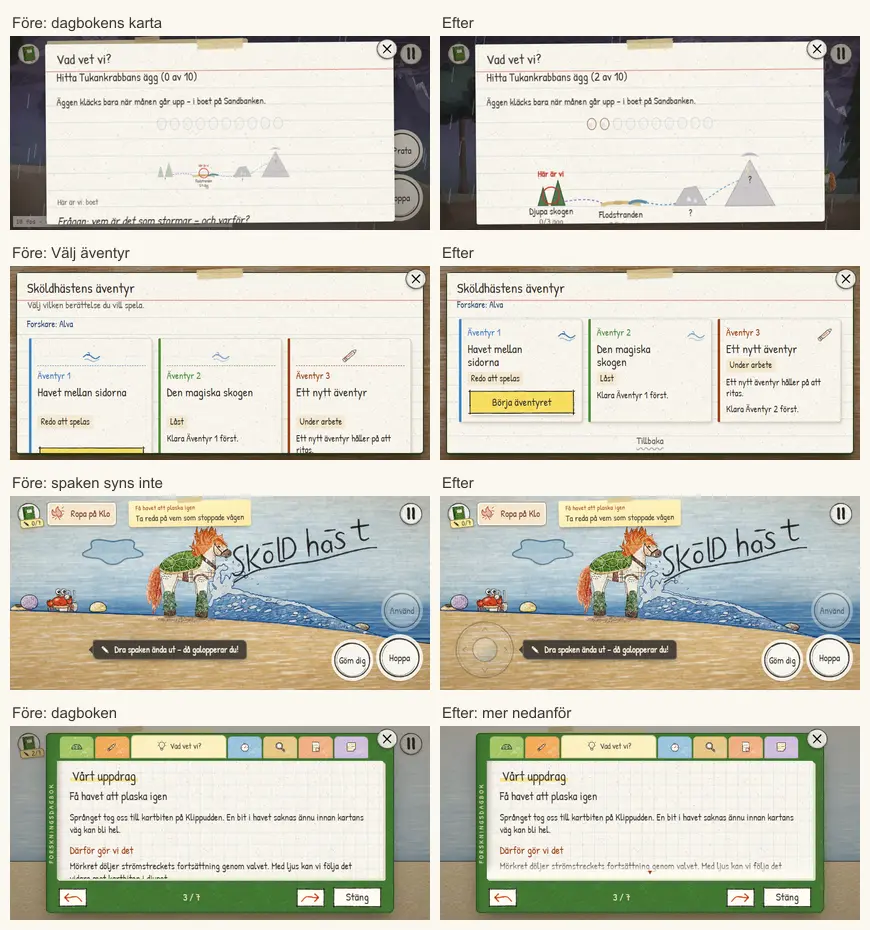
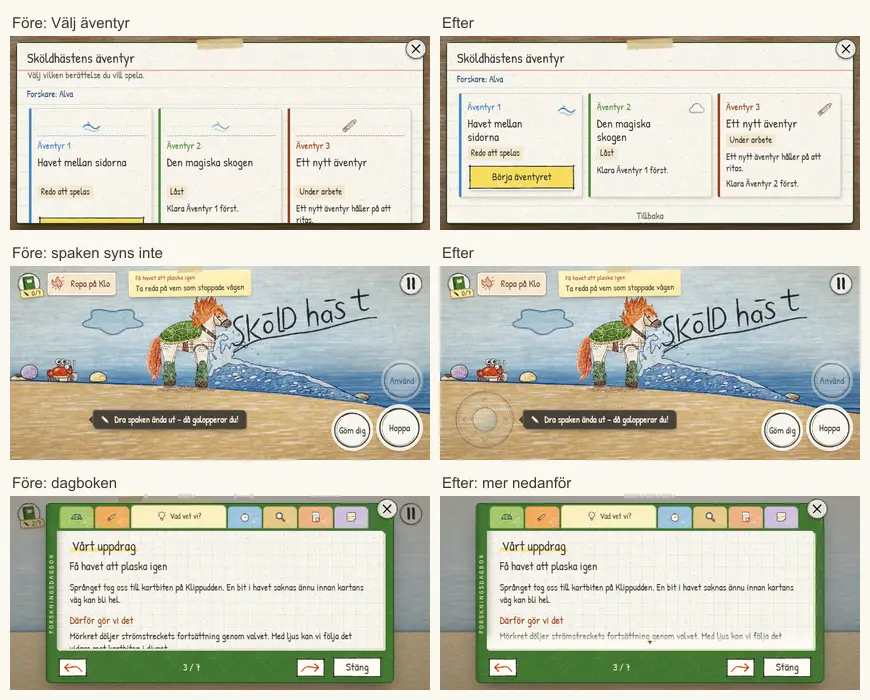
Handover and contact sheets: the night playtest, after the merge with main

diff --git a/skoldhast/HANDOVER.md b/skoldhast/HANDOVER.md
@@ -1,3 +1,84 @@
+## A night playtest of both adventures: what a player sees on a phone (8 November, night)
+
+Pappa asked for both adventures to be played through and for everything found to be fixed: conversations, design,
+puzzles, story, the diary, UX and UI. The session read both adventures in play order (the robots' runs dumped as
+transcripts), played Äventyr 2's prologue, first page, forest, east bank, whole mountain and summit with the real
+keyboard in a browser, watched Äventyr 1's whole touch journey (a picture of every speech box), and had three read-only
+browser audits look at every screen at 390×844, 844×390 and 1440×900 (Äventyr 1, Äventyr 2, Större text / Mindre
+rörelse).
+
+**Merged with main.** While this ran, `main` gained #17–#32 (voices for every line, Äventyr 2's new notebook, "Prata"
+for both companions, and many of the same phone fixes). The merge keeps upstream's work wherever both touched the same
+thing: all spoken text (it is recorded; the same repeated lines had been fixed there), the notebook (this branch's
+changes to the old "Vad vet vi?" card are gone), the table's caption timing and `table-mode`, the egg count, the
+shutter lines, `frameSpeaker`, and the guide check's rule (no key tips on a keyboard, even when guided). This branch's
+quieter "E Prata" label was dropped, since #32 deliberately shows who will answer.
+
+**What this branch adds (all on top of main)**
+- **Äventyr 2, group pictures that follow the group.** The camera hint takes `fit` (the point, the sköldhäst and the
+  named actors, live), applied before `frameSpeaker` (`updateCamera`, `adventures/adventure-2/view.mjs`):
+  - the arrival at the nest, the cloud's arrival and the finale keep Tukankrabban, Klo and the sköldhäst in the
+    picture; in portrait Klo was off screen while introducing himself, and the stopwatch gift and "Lilla Klo" happened
+    with neither in view;
+  - the summit (the cloud's big scene) keeps the group and the cloud in portrait (`portraitFit`); the group stood off
+    the left edge there. Landscape framing of the summit is unchanged;
+  - on a phone on its side the speech strip covers the bottom, so a story picture is centred above it (the hatching was
+    under the words). The crown's vista (`peak`) is untouched.
+- **Äventyr 2, the table in portrait:** the page sits between the caption and the speech box, not at 10 % of the height
+  under the drawing prompt.
+- **Äventyr 2, the finale star** Alva traces was 66 px with its dots touching on a phone; it is at least 17 % of the
+  short side (desktop unchanged), clear of the moon and in the sky.
+- **Äventyr 2, K (pad: Y)** did nothing, though the key list in the settings says "K: ropa på Klo". It now gives Klo's
+  word about what we are doing now, like "Prata" beside him (and counts as his turn, `G.lastTalk`).
+- **Äventyr 1, the first story moment showed an empty beach.** The stopwatch fixed its camera when it began while the
+  gallop carried the sköldhäst up to 1.5 lengths on; at phone sizes neither was on screen during "Helt OKEJ?!". The cam
+  hint takes `fit: ['klo']` (live) in `src/view.mjs`. "Det finns fler!" on the steppe had the same fault (`fit` also
+  takes a fixed x in the world).
+- **Äventyr 1:** "Ropa på Klo … här uppe" now points at the Klo button; the first touch tip, "Dra spaken ända ut",
+  shows the stick faintly (it pointed at nothing); Välj äventyr fits a phone on its side (the play button was below the
+  fold), with each adventure's own icon (Äventyr 2: the cloud).
+- **Both (the shared book and cards):**
+  - a notebook page that scrolls shows a fade and an arrow at its foot;
+  - under an open card the HUD, the goal note and a key prompt hide (the game is paused, so nothing cleared them, and
+    the pause button sat beside the card's ✕);
+  - in portrait the dimmed "Ropa på Klo" button hides under a speaker's name tab;
+  - **Större text:** a card taller than the screen scrolls and its heading no longer shrinks under its own words (the
+    reports and Välj äventyr printed the title over the first line); a thought bubble that would land on the touch
+    buttons goes beside the head; the report's Klo has room on top in portrait; the notebook tab label no longer cuts
+    the g in "Mätningar". Mindre rörelse was checked in both adventures: nothing stalls;
+  - the prologue's choices stay on one line on wide screens.
+- **Windows:** `scripts/skoldhast-voice.mjs` imported the text by a bare path, so on Windows four test files (both
+  robots, the play-order test and the voice test) failed to load, on `main` too. It imports by file URL now.
+
+**Checked and left as it was**
+- Both stories read well in play order; Äventyr 1's help, recaps, goals and clue texts are correct Swedish.
+- A Swedish note: "molnet är rädd" stays. The neuter of "rädd" is spelled "rätt", which collides with "rätt"
+  (correct), so Swedish normally keeps "rädd" or rephrases ("rädt" is not standard spelling).
+- Äventyr 2 with the real keyboard at 844×390: the bridge, the mushroom, the seeds, the leap, the ball (a 0.75-length
+  push window, facing the ball), the whirl's coin, Skatan's tree branch by branch, the trade, the waterfall, K1–K3, the
+  spring, the gusts and their warning, the light bridge, the wind over the gap, the summit. No page errors.
+- Small things left: the settings card scrolls a little at 844×390 to reach "Tangenter och handkontroll"; Klo's hint
+  bubble at 844×390 lies over the "Ropa på Klo" button while he speaks; with Större text at 390×844 the red rule under
+  "Sköldhästens äventyr" falls between its two lines.
+- A spoken line this session would still change, but cannot without recording (no ElevenLabs key here): the map hint
+  "där står hur många ägg varje plats har kvar" (`HINTS.more`); the map shows eggs found, not eggs left.
+
+**Verification**
+- `npm test` passes (457) on the merged tree; the robots and the voice coverage run on Windows now.
+- Browser checks that pass on the merged tree: `skoldhast-a2` (all of it, including the speaker checks), `skoldhast-guide`,
+  `skoldhast-launch`, `skoldhast-adventures`, `skoldhast-notebook`, `skoldhast-mapbook`, `skoldhast-dialogue`,
+  `skoldhast-opening`. With ten or more of them at once on one machine the title page can take over 30 s under software
+  WebGL: four timed out that way here and passed when run again on their own.
+- Still failing on untouched `main` too: `skoldhast-journey.mjs` (touch, 844×390) plays all of Kapitel 1–3 and stops at
+  its last assertion, "the page unfolds before the splash lands" (not looked into; the pure robot checks the same order
+  and passes).
+- **Contact sheets:** `docs/skoldhast/shots/night/` (taken on the merged tree).
+
+**Frågor till Pappa**
+1. The finale's group pictures zoom out further on a phone so that everyone fits. Is the hatching big enough on Alva's
+   device?
+2. `HINTS.more` says the map shows the eggs *left*; it shows the eggs found. Record a corrected line?
+
 ## Äventyr 2: "Prata" reaches both Klo and Tukankrabban (7 November)
 
 Pappa found it hard to tell whether "Prata" would talk to Klo or Tukankrabban. They follow close behind the sköldhäst,
